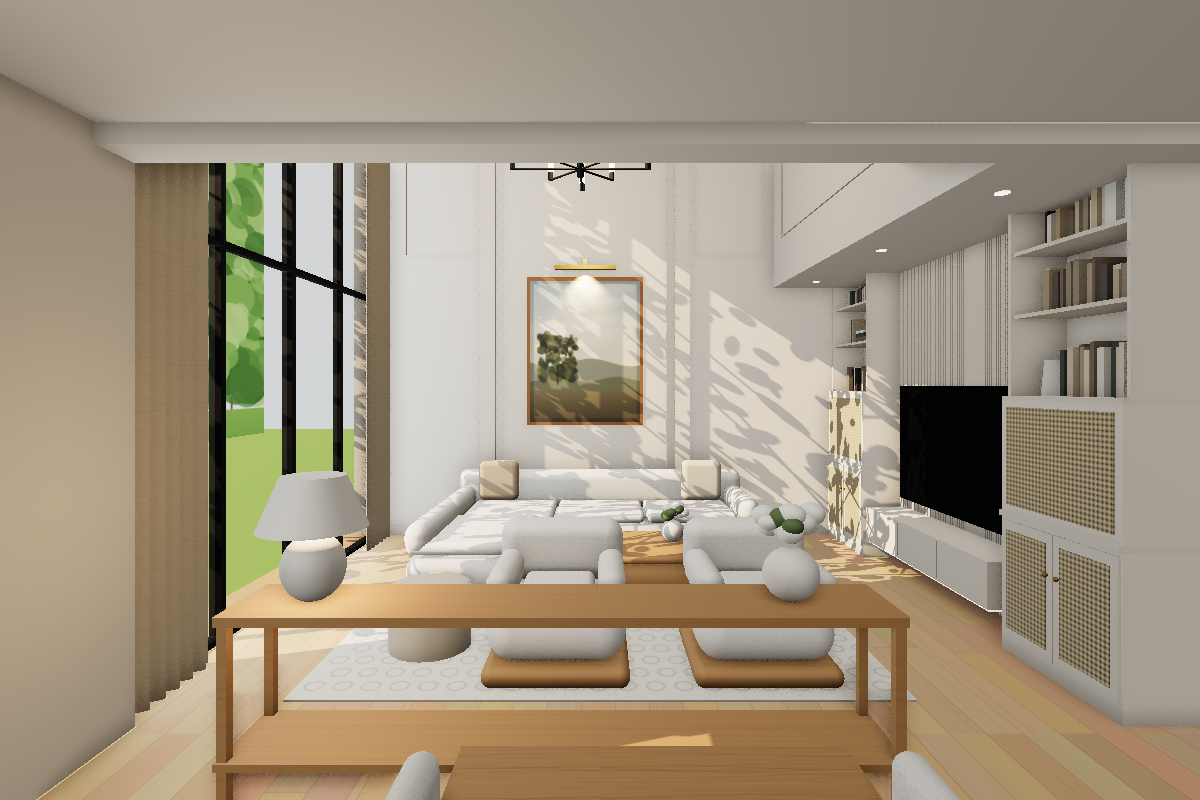
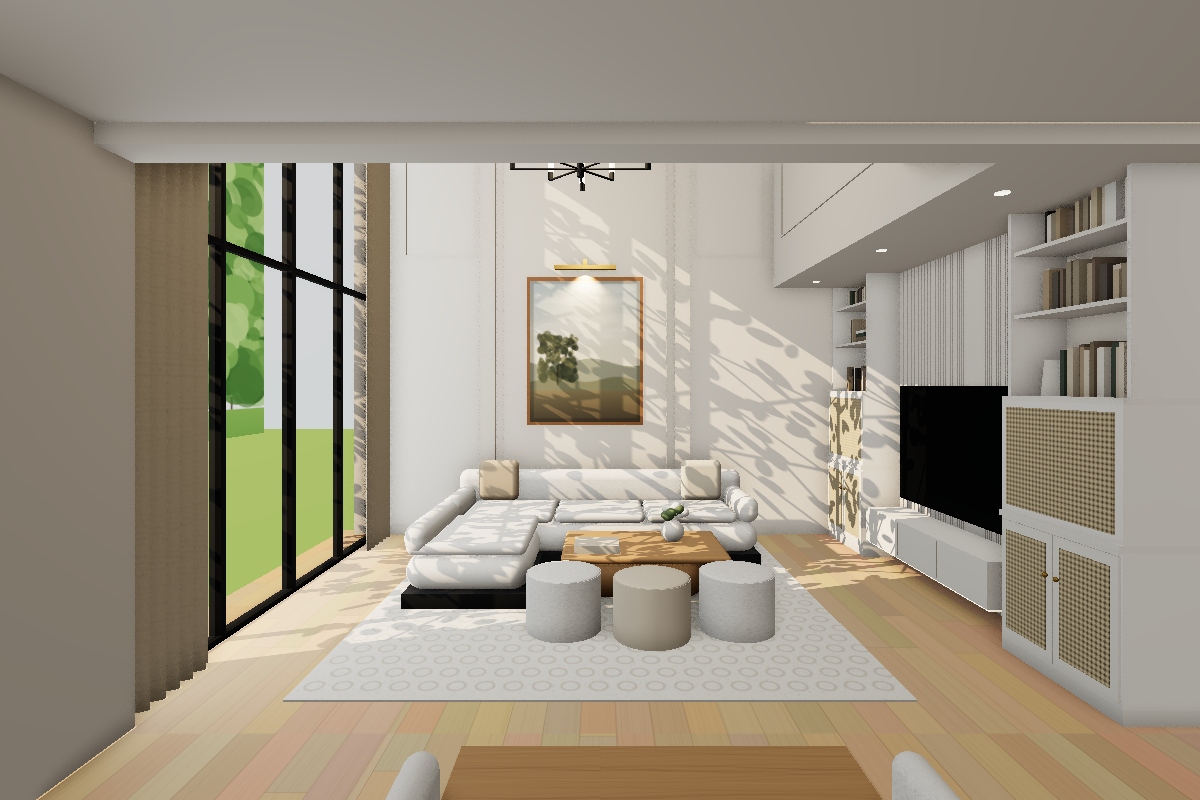
TV we wnęce: pufy przy stoliku zamiast foteli, bez konsoli za kanapą, 2 głośniki sufitowe między oczkami
Claude-Session: https://claude.ai/code/session_01STLbtYii5p8wK44WZJV9Pu

diff --git a/koncepcje/salon-wneka/model-tv-wneka/index.html b/koncepcje/salon-wneka/model-tv-wneka/index.html
@@ -15,8 +15,8 @@ button{border:1px solid var(--line);background:var(--btn);color:var(--fg);border
 </style>
 <script type="importmap">{"imports":{"three":"https://cdn.jsdelivr.net/npm/three@0.170.0/build/three.module.js","three/addons/":"https://cdn.jsdelivr.net/npm/three@0.170.0/examples/jsm/"}}</script>
 <div id="load">Ładowanie modelu 3D…</div>
-<div id="hd"><b>TV we wnęce – ciepła biel</b><span>Wnęka obniżona do spodu podciągu (280 cm), zabudowa TV w ciepłej bieli (wieże z plecionką, lamele, konsola). Ściana płd.: ramka +10 cm (1,5× szersza), pas cofnięty o 7 cm, panel +7 cm z obrazem na środku. Opcja: bok wnęki od strony holu zabudowany ścianką g-k (25 cm), zlicowaną z frontem zabudowy i z licem słupa/podciągu od strony korytarza. Meble w jaśniejszej ciepłej bieli niż ściany. Przeciągnij, żeby obracać.</span></div>
-<div id="ui"><div class="grp"><span class="lab">Kanapy</span><button data-s="p" class="on">Dwie równoległe</button><button data-s="l">Narożnik</button><button data-s="r">Narożnik obrócony + fotele</button></div>
+<div id="hd"><b>TV we wnęce – ciepła biel</b><span>Wnęka obniżona do spodu podciągu (280 cm), zabudowa TV w ciepłej bieli (wieże z plecionką, lamele, konsola). Ściana płd.: ramka +10 cm (1,5× szersza), pas cofnięty o 7 cm, panel +7 cm z obrazem na środku. Opcja: bok wnęki od strony holu zabudowany ścianką g-k (25 cm), zlicowaną z frontem zabudowy i z licem słupa/podciągu od strony korytarza. Meble w jaśniejszej ciepłej bieli niż ściany. W suficie wnęki 3 oczka i 2 głośniki między nimi. Przeciągnij, żeby obracać.</span></div>
+<div id="ui"><div class="grp"><span class="lab">Kanapy</span><button data-s="p" class="on">Dwie równoległe</button><button data-s="l">Narożnik</button><button data-s="r">Narożnik obrócony + pufy</button></div>
 <div class="grp"><span class="lab">Bok wnęki</span><button data-w="0" class="on">Otwarty</button><button data-w="1">Ścianka g-k</button></div>
 <div class="grp"><span class="lab">Widok</span><button data-v="wneka" class="on">Wnęka</button><button data-v="salon">Ściana z obrazem</button><button data-v="okno">Od wnęki</button><button data-v="kuch">Od kuchni</button><button data-v="gora">Z góry</button></div></div>
 <script>window.__ready=()=>{document.getElementById('load').remove();window.__go('wneka');
@@ -382,6 +382,9 @@ function conceptK2W(mode = 'L', sideWall = false) {
   B(4.5, 42, 104, 290, 20, 52, WC); for (const y of [166, 228]) B(42, 42.3, y - .3, y + .3, 22, 50, M({ color: '#d8cdbd' }));
   ledStrip(4.5, 40, 106, 288, 18, 20);
   for (const y of [46, 197, 348]) cyl(70, y, TOP - 1, TOP, 4, mat.glow, 16);
+  // 2 głośniki sufitowe pomiędzy oczkami (grill Ø20 cm, malowany na kolor sufitu)
+  { const gr = M({ color: '#ebe5dc', roughness: .9, name: 'grill' }), ring = M({ color: '#ddd5ca', roughness: .7, name: 'grillRing' });
+    for (const y of [121.5, 272.5]) { cyl(70, y, TOP - .8, TOP, 11, ring, 40); cyl(70, y, TOP - 1, TOP - .2, 9.6, gr, 40); for (let k = -3; k <= 3; k++) B(70 + k * 2.6 - .3, 70 + k * 2.6 + .3, y - Math.sqrt(Math.max(0, 81 - (k * 2.6) ** 2)), y + Math.sqrt(Math.max(0, 81 - (k * 2.6) ** 2)), TOP - 1.15, TOP - 1, ring, { cast: false }); } }
   flushBooks();
   // --- meble
   if (mode === 'L') {
@@ -394,7 +397,7 @@ function conceptK2W(mode = 'L', sideWall = false) {
     B(354, 450, 126, 236, 0, 12, mat.black); B(354, 450, 126, 236, 12, 40, mat.boucle, { r: 4 }); B(356, 448, 128, 234, 40, 50, mat.boucle, { r: 6 }); B(430, 450, 126, 236, 40, 64, mat.boucle, { r: 8 });
     const ct = B(200, 330, 150, 236, 34, 40, mat.oak, { r: 6 }); uvScale(ct, 1); B(215, 315, 165, 221, 0, 34, mat.oak, { r: 4 });
     vaseFlowers(240, 190, 40, .75); B(285, 320, 200, 228, 40, 46, M({ color: '#d9cbb5' }));
-    armchair(205, 320, Math.PI); armchair(325, 320, Math.PI); pouf(410, 300, 26, M({ color: '#d9cbb5', roughness: 1 }));
+    { const tc = [265, 193]; for (const [x, y, m] of [[205, 272, mat.boucle], [265, 284, M({ color: '#d9cbb5', roughness: 1 })], [325, 272, mat.boucle]]) { pouf(x, y, 26, m); const a = Math.atan2(tc[1] - y, tc[0] - x); B(x - 3 + Math.cos(a) * 14, x + 3 + Math.cos(a) * 14, y - 3 + Math.sin(a) * 14, y + 3 + Math.sin(a) * 14, 41, 41.5, m); } } // pufy przy stoliku, zwrócone do niego
     B(130, 470, 20, 370, 0, 1.2, mat.rug).material = mat.rug;
   } else {
     // dwie kanapy równoległe (prostopadle do okna i TV), stolik pośrodku
@@ -404,9 +407,7 @@ function conceptK2W(mode = 'L', sideWall = false) {
     B(130, 440, 20, 370, 0, 1.2, mat.rug).material = mat.rug;
     for (const y of [30, 360]) { B(410, 455, y - 22, y + 22, 0, 52, mat.oak, { r: 3 }); lamp(432, y, 52); }
   }
-  // konsola za kanapą od strony jadalni (jak dotąd)
-  B(180, 450, 422, 462, 76, 80, mat.oak); B(180, 450, 422, 462, 20, 23, mat.oak); for (const [x, y] of [[183, 425], [447, 425], [183, 459], [447, 459]]) B(x - 2, x + 2, y - 2, y + 2, 0, 76, mat.oak);
-  lamp(420, 442, 80); vaseFlowers(220, 442, 80, .9);
+
 }
 
 // ======================= K1W: koncepcja 1 bez ławy i drabiny + szafa po prawej =======================
@@ -1342,6 +1343,7 @@ const VIEWS = {
   niche2: { pos: [535, 240, 132], look: [0, 197], up: 28, down: 24 },
   bok:    { pos: [300, 560, 150], look: [40, 330], up: 30, down: 26 },
   kuch:   { pos: [300, 700, 170], look: [300, 0], up: 32, down: 34 },
+  sufit:  { pos: [180, 197, 150], look: [0, 197], up: 50, down: 10 },
   wall:   { pos: [540, 205, 150], look: [0, 205], up: 42, down: 28 },
   gap:    { pos: [330, 60, 160], look: [0, 200], up: 55, down: 5 },
   wide:   { pos: [40, 600, 150], look: [420, 60], up: 38, down: 32 },

diff --git a/koncepcje/dom-3d/scene.js b/koncepcje/dom-3d/scene.js
@@ -355,6 +355,9 @@ function conceptK2W(mode = 'L', sideWall = false) {
   B(4.5, 42, 104, 290, 20, 52, WC); for (const y of [166, 228]) B(42, 42.3, y - .3, y + .3, 22, 50, M({ color: '#d8cdbd' }));
   ledStrip(4.5, 40, 106, 288, 18, 20);
   for (const y of [46, 197, 348]) cyl(70, y, TOP - 1, TOP, 4, mat.glow, 16);
+  // 2 głośniki sufitowe pomiędzy oczkami (grill Ø20 cm, malowany na kolor sufitu)
+  { const gr = M({ color: '#ebe5dc', roughness: .9, name: 'grill' }), ring = M({ color: '#ddd5ca', roughness: .7, name: 'grillRing' });
+    for (const y of [121.5, 272.5]) { cyl(70, y, TOP - .8, TOP, 11, ring, 40); cyl(70, y, TOP - 1, TOP - .2, 9.6, gr, 40); for (let k = -3; k <= 3; k++) B(70 + k * 2.6 - .3, 70 + k * 2.6 + .3, y - Math.sqrt(Math.max(0, 81 - (k * 2.6) ** 2)), y + Math.sqrt(Math.max(0, 81 - (k * 2.6) ** 2)), TOP - 1.15, TOP - 1, ring, { cast: false }); } }
   flushBooks();
   // --- meble
   if (mode === 'L') {
@@ -367,7 +370,7 @@ function conceptK2W(mode = 'L', sideWall = false) {
     B(354, 450, 126, 236, 0, 12, mat.black); B(354, 450, 126, 236, 12, 40, mat.boucle, { r: 4 }); B(356, 448, 128, 234, 40, 50, mat.boucle, { r: 6 }); B(430, 450, 126, 236, 40, 64, mat.boucle, { r: 8 });
     const ct = B(200, 330, 150, 236, 34, 40, mat.oak, { r: 6 }); uvScale(ct, 1); B(215, 315, 165, 221, 0, 34, mat.oak, { r: 4 });
     vaseFlowers(240, 190, 40, .75); B(285, 320, 200, 228, 40, 46, M({ color: '#d9cbb5' }));
-    armchair(205, 320, Math.PI); armchair(325, 320, Math.PI); pouf(410, 300, 26, M({ color: '#d9cbb5', roughness: 1 }));
+    { const tc = [265, 193]; for (const [x, y, m] of [[205, 272, mat.boucle], [265, 284, M({ color: '#d9cbb5', roughness: 1 })], [325, 272, mat.boucle]]) { pouf(x, y, 26, m); const a = Math.atan2(tc[1] - y, tc[0] - x); B(x - 3 + Math.cos(a) * 14, x + 3 + Math.cos(a) * 14, y - 3 + Math.sin(a) * 14, y + 3 + Math.sin(a) * 14, 41, 41.5, m); } } // pufy przy stoliku, zwrócone do niego
     B(130, 470, 20, 370, 0, 1.2, mat.rug).material = mat.rug;
   } else {
     // dwie kanapy równoległe (prostopadle do okna i TV), stolik pośrodku
@@ -377,9 +380,7 @@ function conceptK2W(mode = 'L', sideWall = false) {
     B(130, 440, 20, 370, 0, 1.2, mat.rug).material = mat.rug;
     for (const y of [30, 360]) { B(410, 455, y - 22, y + 22, 0, 52, mat.oak, { r: 3 }); lamp(432, y, 52); }
   }
-  // konsola za kanapą od strony jadalni (jak dotąd)
-  B(180, 450, 422, 462, 76, 80, mat.oak); B(180, 450, 422, 462, 20, 23, mat.oak); for (const [x, y] of [[183, 425], [447, 425], [183, 459], [447, 459]]) B(x - 2, x + 2, y - 2, y + 2, 0, 76, mat.oak);
-  lamp(420, 442, 80); vaseFlowers(220, 442, 80, .9);
+
 }
 
 // ======================= K1W: koncepcja 1 bez ławy i drabiny + szafa po prawej =======================
@@ -1315,6 +1316,7 @@ const VIEWS = {
   niche2: { pos: [535, 240, 132], look: [0, 197], up: 28, down: 24 },
   bok:    { pos: [300, 560, 150], look: [40, 330], up: 30, down: 26 },
   kuch:   { pos: [300, 700, 170], look: [300, 0], up: 32, down: 34 },
+  sufit:  { pos: [180, 197, 150], look: [0, 197], up: 50, down: 10 },
   wall:   { pos: [540, 205, 150], look: [0, 205], up: 42, down: 28 },
   gap:    { pos: [330, 60, 160], look: [0, 200], up: 55, down: 5 },
   wide:   { pos: [40, 600, 150], look: [420, 60], up: 38, down: 32 },
